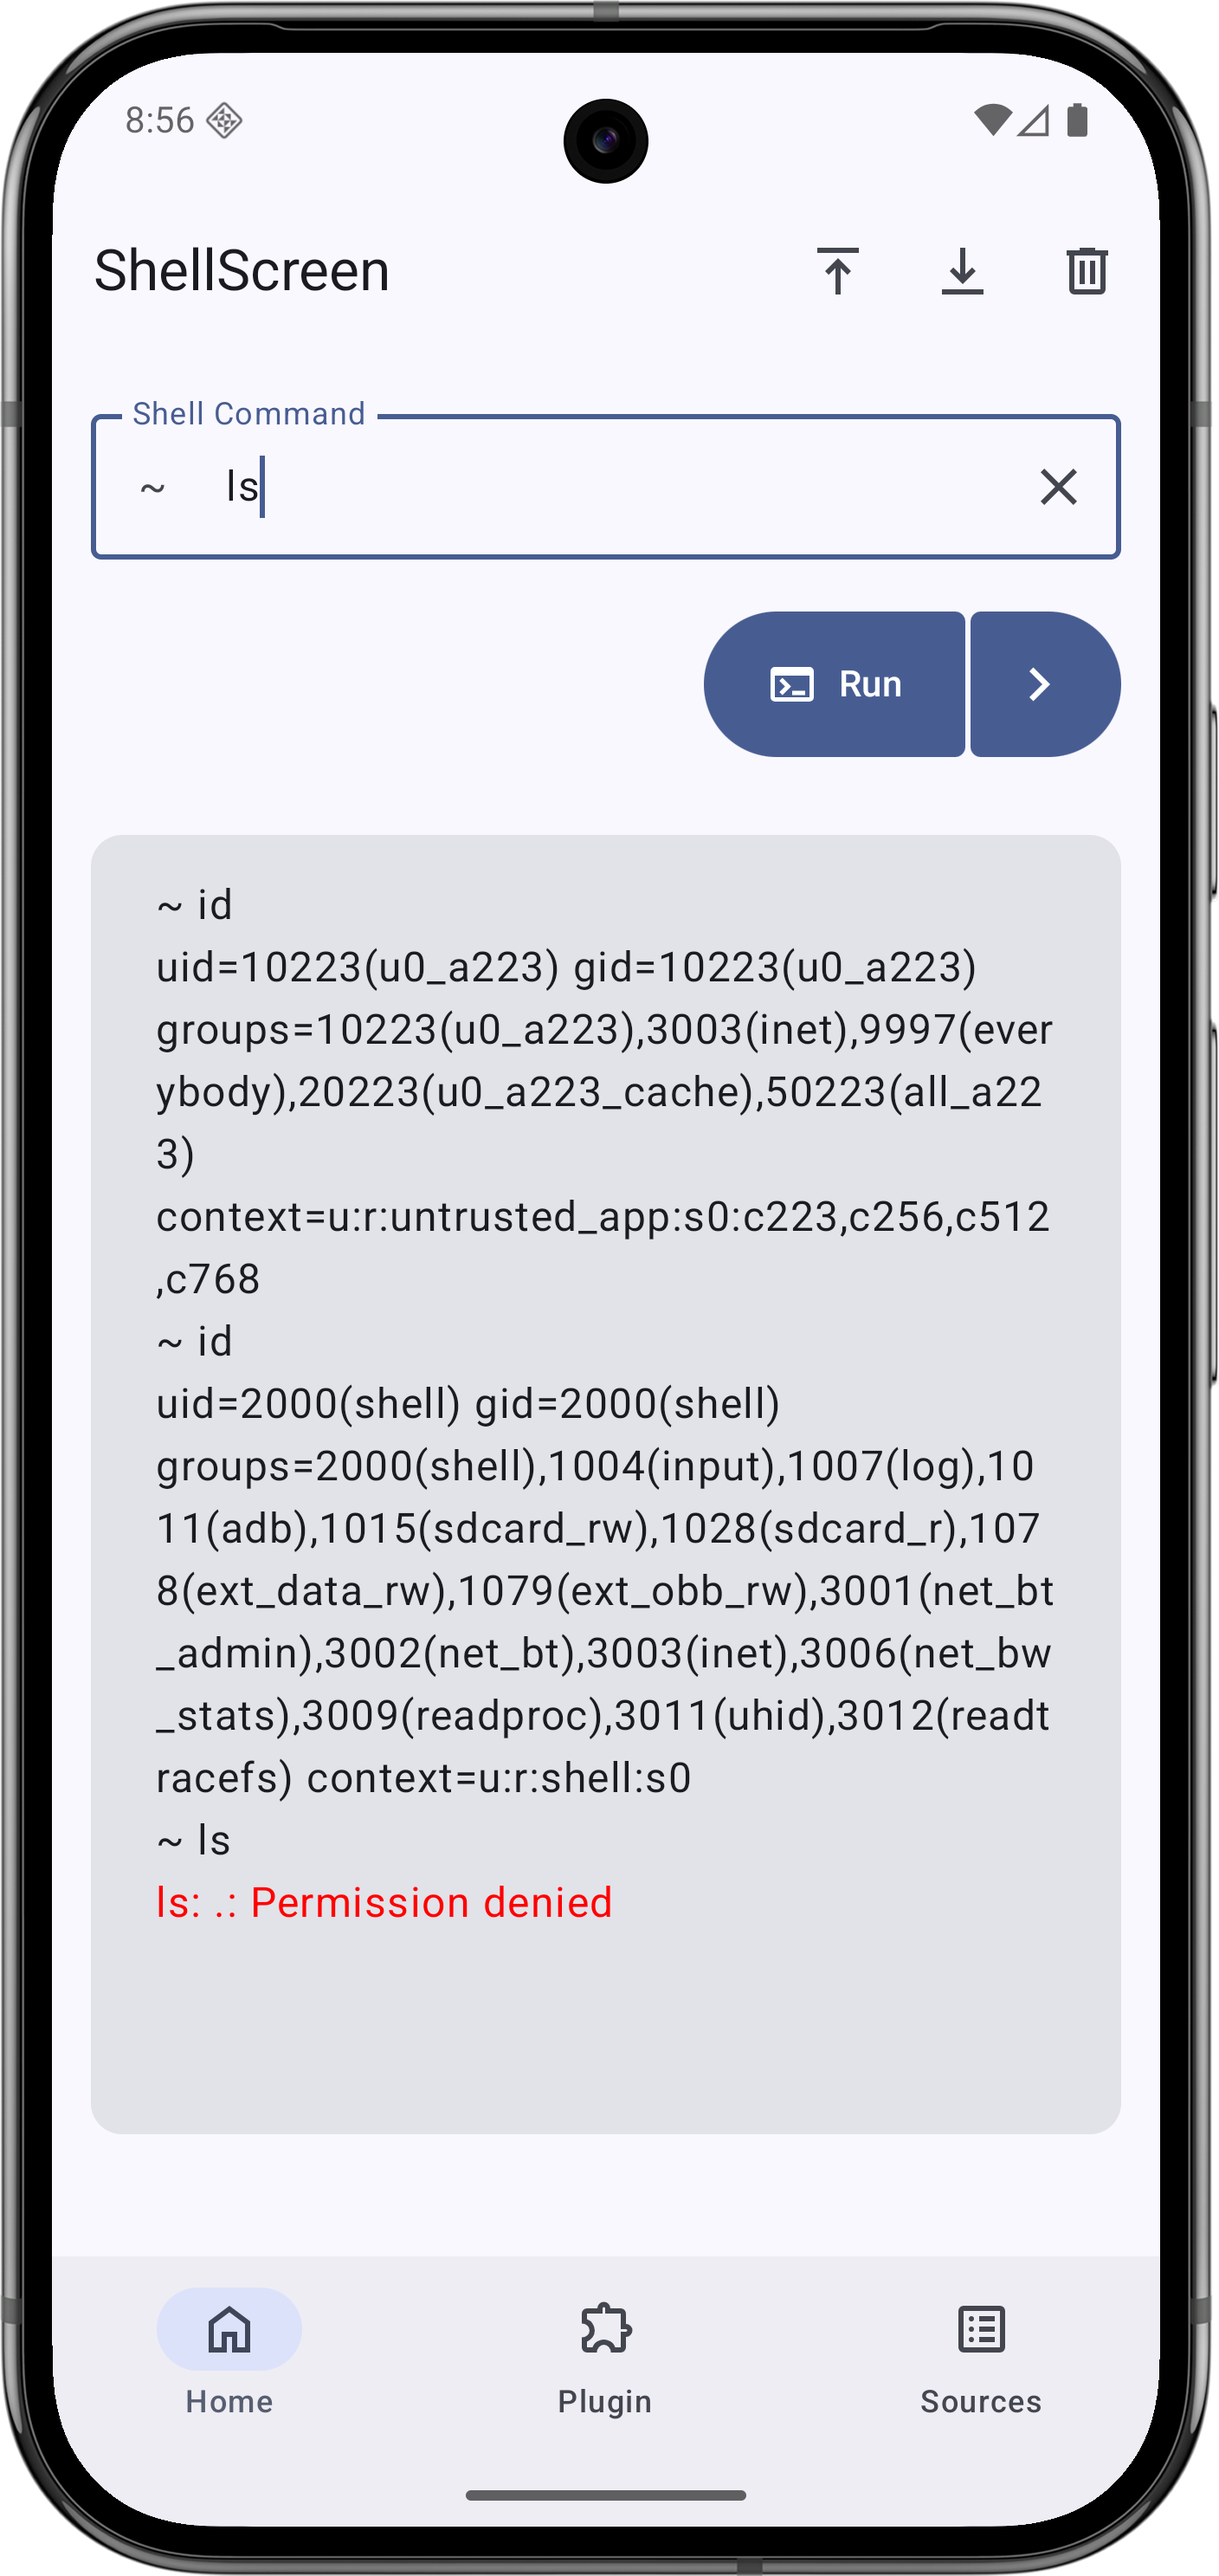
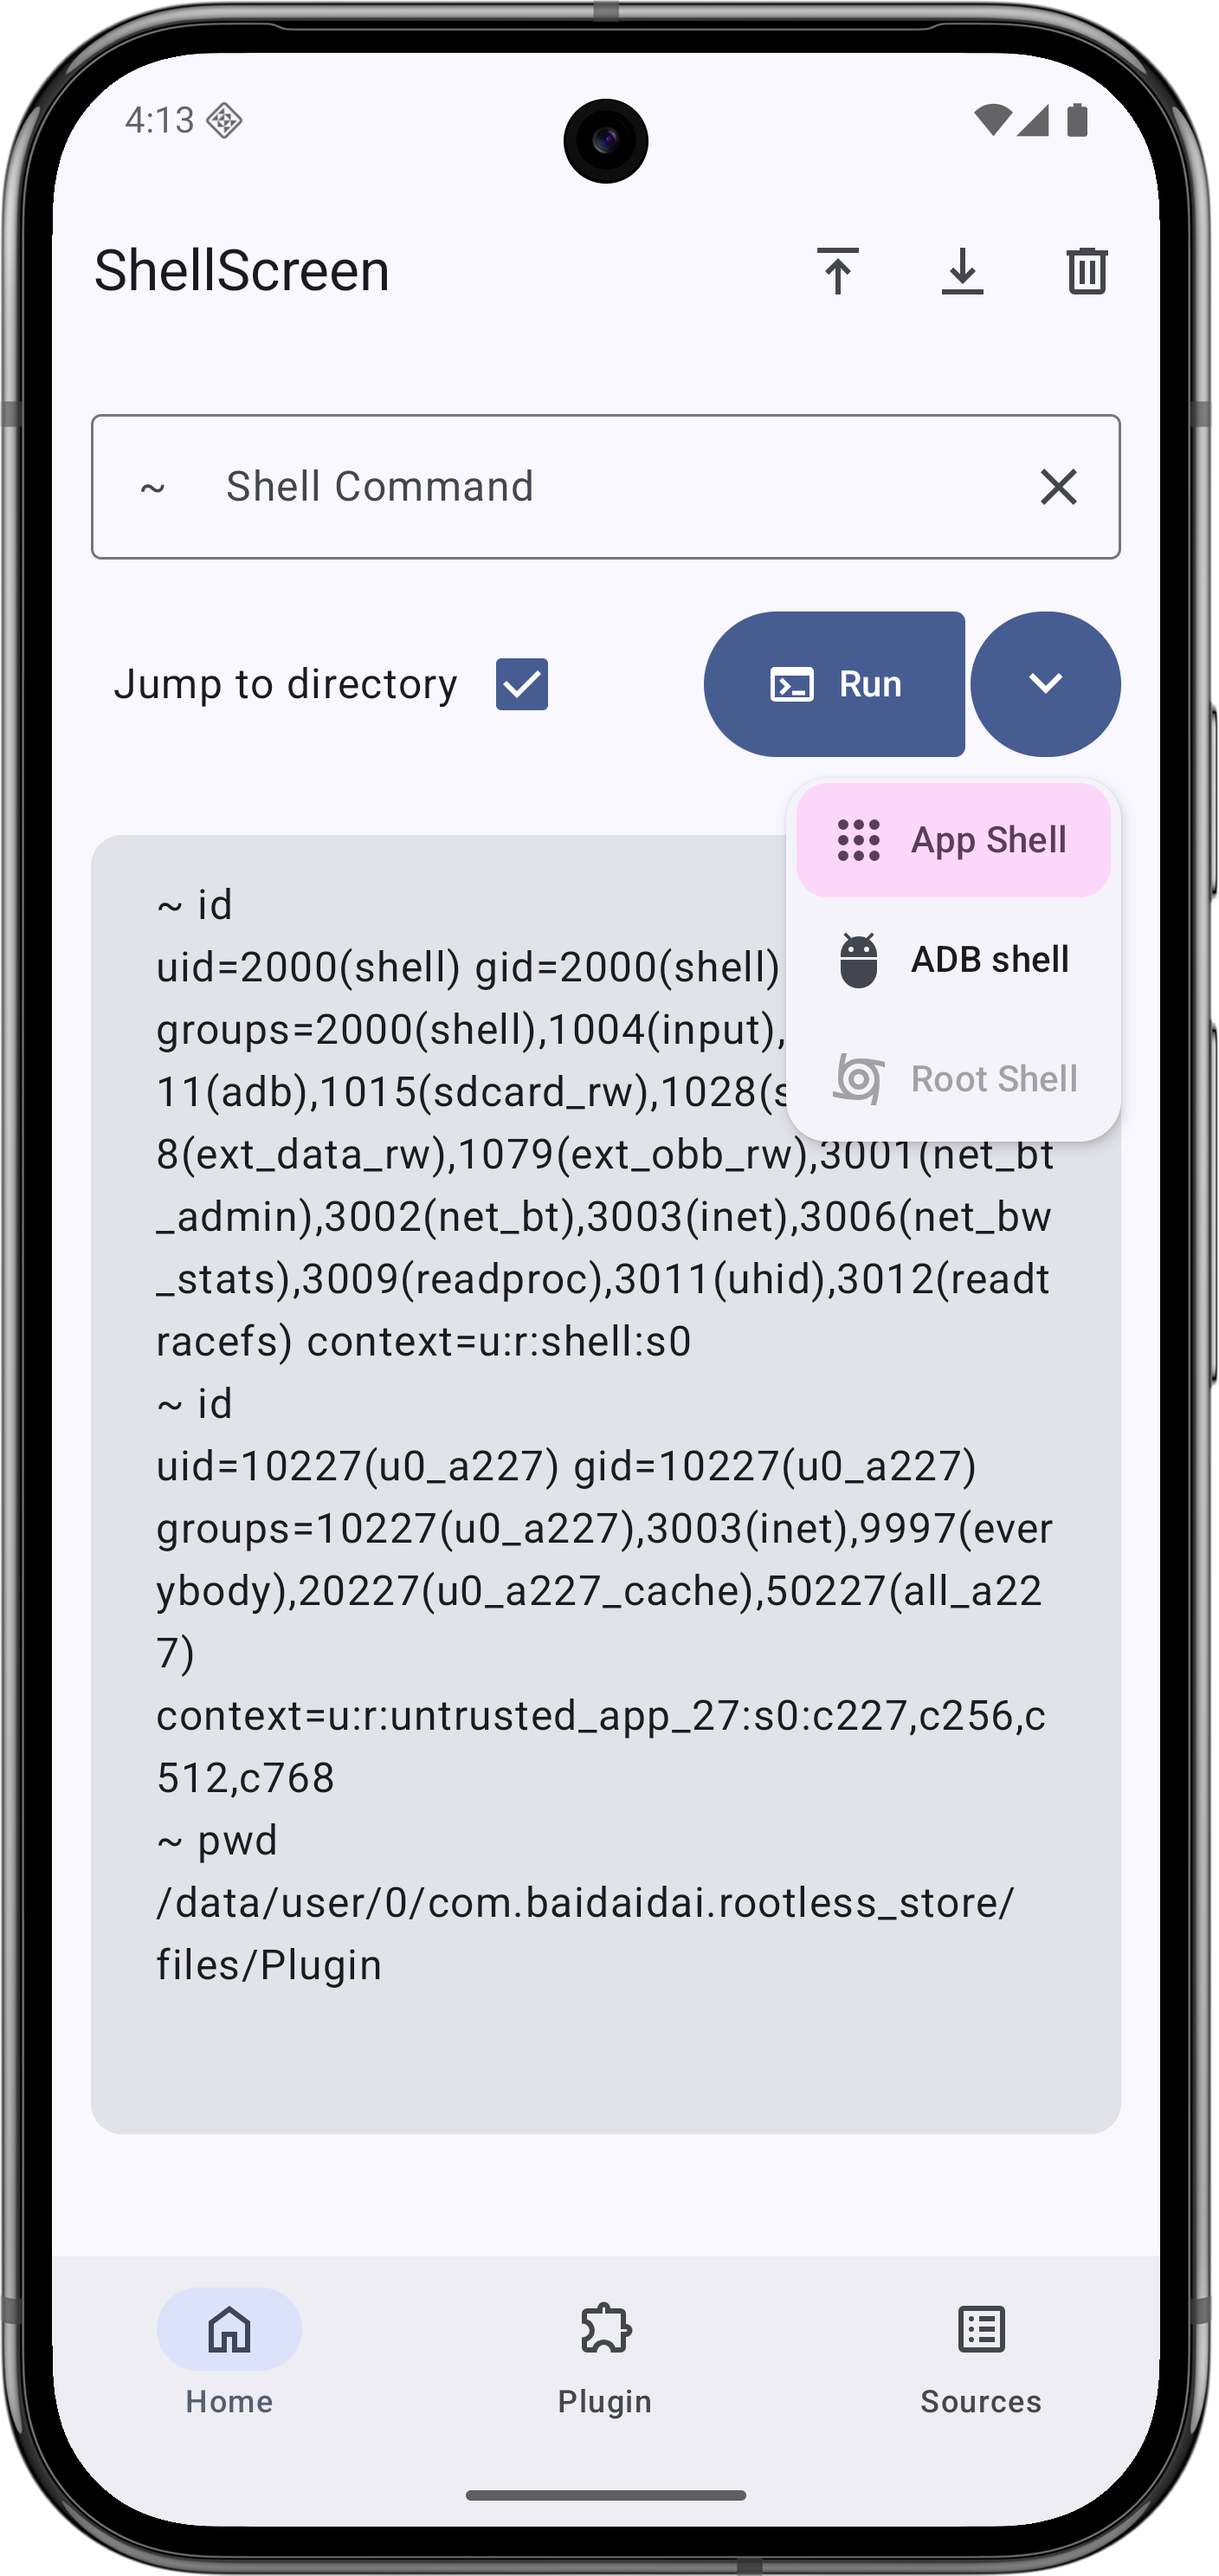
docs(release): Add v0.0.901 release notes and screenshots
Add the v0.0.901 release note covering shell context preferences and runtime strategy changes.
Refresh English and Chinese screenshots for the updated home, plugin, and shell screens.

diff --git a/asset/markdown/release/v0.0.901.md b/asset/markdown/release/v0.0.901.md
@@ -1,0 +1,79 @@
+# Shell 上下文偏好增强版
+
+Welcome to Rootless Store v0.0.901!
+
+This update focuses on making the Shell workflow more configurable and more practical in real use. In v0.0.901, Rootless Store introduces persistent Shell context preferences, applies those preferences directly to command execution, and adjusts the app's runtime strategy so more plugins can run in LIMITED environments without forcing users to escalate into Shell-level privileges.
+
+欢迎来到 Rootless Store v0.0.901！
+
+这个版本的重点，是让 Shell 工作流在实际使用中变得更可控、更贴近真实场景。v0.0.901 引入了可持久化的 Shell 上下文偏好设置，并将这些偏好直接应用到命令执行流程中；同时也调整了应用的运行策略，让更多插件可以在 LIMITED 环境下直接运行，而不必强制提权到 Shell 级别。
+
+---
+
+### What's New in v0.0.901
+
+* **Persistent Shell Context Preferences**:
+    * **Saved Shell Options**: Added persistent Shell preference storage so selected execution options can be remembered across app sessions.
+    * **DataStore-backed Settings**: Shell context settings are now stored through a dedicated preference layer, improving consistency and future extensibility.
+* **Shell Execution Behavior Enhancements**:
+    * **`run-as` Toggle for ADB Shell**: Added an option to control whether ADB Shell commands should run with `run-as` behavior.
+    * **Jump-to-Directory Option**: Added a Shell option to jump into the default plugin directory before running commands in applicable environments.
+    * **Preferences Applied at Runtime**: Saved Shell context preferences are now read and applied directly when commands are executed.
+* **Shell Screen Interaction Updates**:
+    * **Context-aware Controls**: The Shell screen now exposes different option controls depending on the selected Shell environment, making the workflow more explicit.
+* **LIMITED Runtime Strategy Adjustment**:
+    * **Lower Target SDK for Broader Execution**: Adjusted the target SDK strategy so more plugins can execute under LIMITED environments.
+    * **Reduced Privilege Escalation Pressure**: This helps avoid forcing users to escalate into Shell for many common plugin scenarios, lowering both mental overhead and practical usage cost.
+
+### v0.0.901 更新内容
+
+* **可持久化的 Shell 上下文偏好**:
+    * **Shell 选项记忆**: 新增了可持久化的 Shell 偏好存储能力，让已选择的执行选项可以跨应用会话被记住。
+    * **基于 DataStore 的设置层**: Shell 上下文设置现已通过独立的偏好存储层管理，为一致性和后续扩展打下基础。
+* **Shell 执行行为增强**:
+    * **ADB Shell 的 `run-as` 开关**: 为 ADB Shell 新增了是否启用 `run-as` 执行行为的控制选项。
+    * **跳转目录选项**: 为适用的 Shell 环境新增了在执行命令前自动跳转到默认插件目录的能力。
+    * **运行时应用偏好**: 已保存的 Shell 上下文偏好现在会在命令执行时被直接读取并应用。
+* **Shell 页面交互更新**:
+    * **按环境显示控制项**: Shell 页面会根据当前选择的 Shell 环境展示不同的选项控制，让执行流程更明确、更可见。
+* **LIMITED 运行策略调整**:
+    * **更低的 Target SDK 以扩大可执行范围**: 调整了 target SDK 相关策略，让更多插件可以在 LIMITED 环境下直接执行。
+    * **减少对 Shell 提权的依赖**: 这让很多常见插件场景不再需要强制提权到 Shell，显著降低了用户的心智负担和实际使用成本。
+
+---
+
+### Key Features
+
+* **Configurable Shell Workflow**: Rootless Store now gives users more direct control over how Shell commands are prepared and executed.
+* **Persistent Execution Preferences**: Frequently used Shell options no longer need to be reconfigured every time the app is reopened.
+* **More Plugins Usable in LIMITED Environments**: By adjusting the runtime strategy, Rootless Store can keep more plugin flows usable without immediately pushing users toward privilege escalation.
+* **Lower User Burden**: Reducing the need for Shell-level escalation makes the platform easier to understand, easier to adopt, and cheaper to use in practice.
+
+### 主要功能
+
+* **可配置的 Shell 工作流**: Rootless Store 现在提供了更直接的控制能力，让用户能决定命令该如何被准备和执行。
+* **可记忆的执行偏好**: 常用的 Shell 选项不再需要每次打开应用后重复设置。
+* **更多插件可在 LIMITED 环境下运行**: 通过调整运行策略，Rootless Store 能让更多插件流程在不立即走向提权的情况下保持可用。
+* **更低的用户负担**: 减少对 Shell 级提权的依赖，也就让整个平台更容易理解、更容易上手，并降低了实际使用成本。
+
+---
+
+### Known Issues & Future Plans
+
+* This is still an early-stage refinement of the Shell option system, and option coverage may continue to expand in future versions.
+* Some plugins and runtime paths may still require stronger privileges depending on device state and environment constraints.
+* Future updates may continue improving LIMITED-environment coverage, Shell option localization, and more advanced execution presets.
+
+### 已知问题与未来计划
+
+* 这仍然是 Shell 选项系统的早期迭代版本，后续仍可能继续扩展可配置项的覆盖范围。
+* 部分插件和运行路径仍可能因设备状态或环境限制，继续需要更高权限支持。
+* 未来更新预计会继续提升 LIMITED 环境下的覆盖能力，并完善 Shell 选项的本地化和更高级的执行预设能力。
+
+---
+
+### Thanks
+
+Thank you for continuing to explore Rootless Store as it evolves. Improvements like these make the platform more practical by letting more users run more plugins with less privilege pressure.
+
+感谢你持续关注 Rootless Store 的演进。像这样的改进，真正让更多用户能够以更低的权限压力运行更多插件，让平台更接近日常可用。
